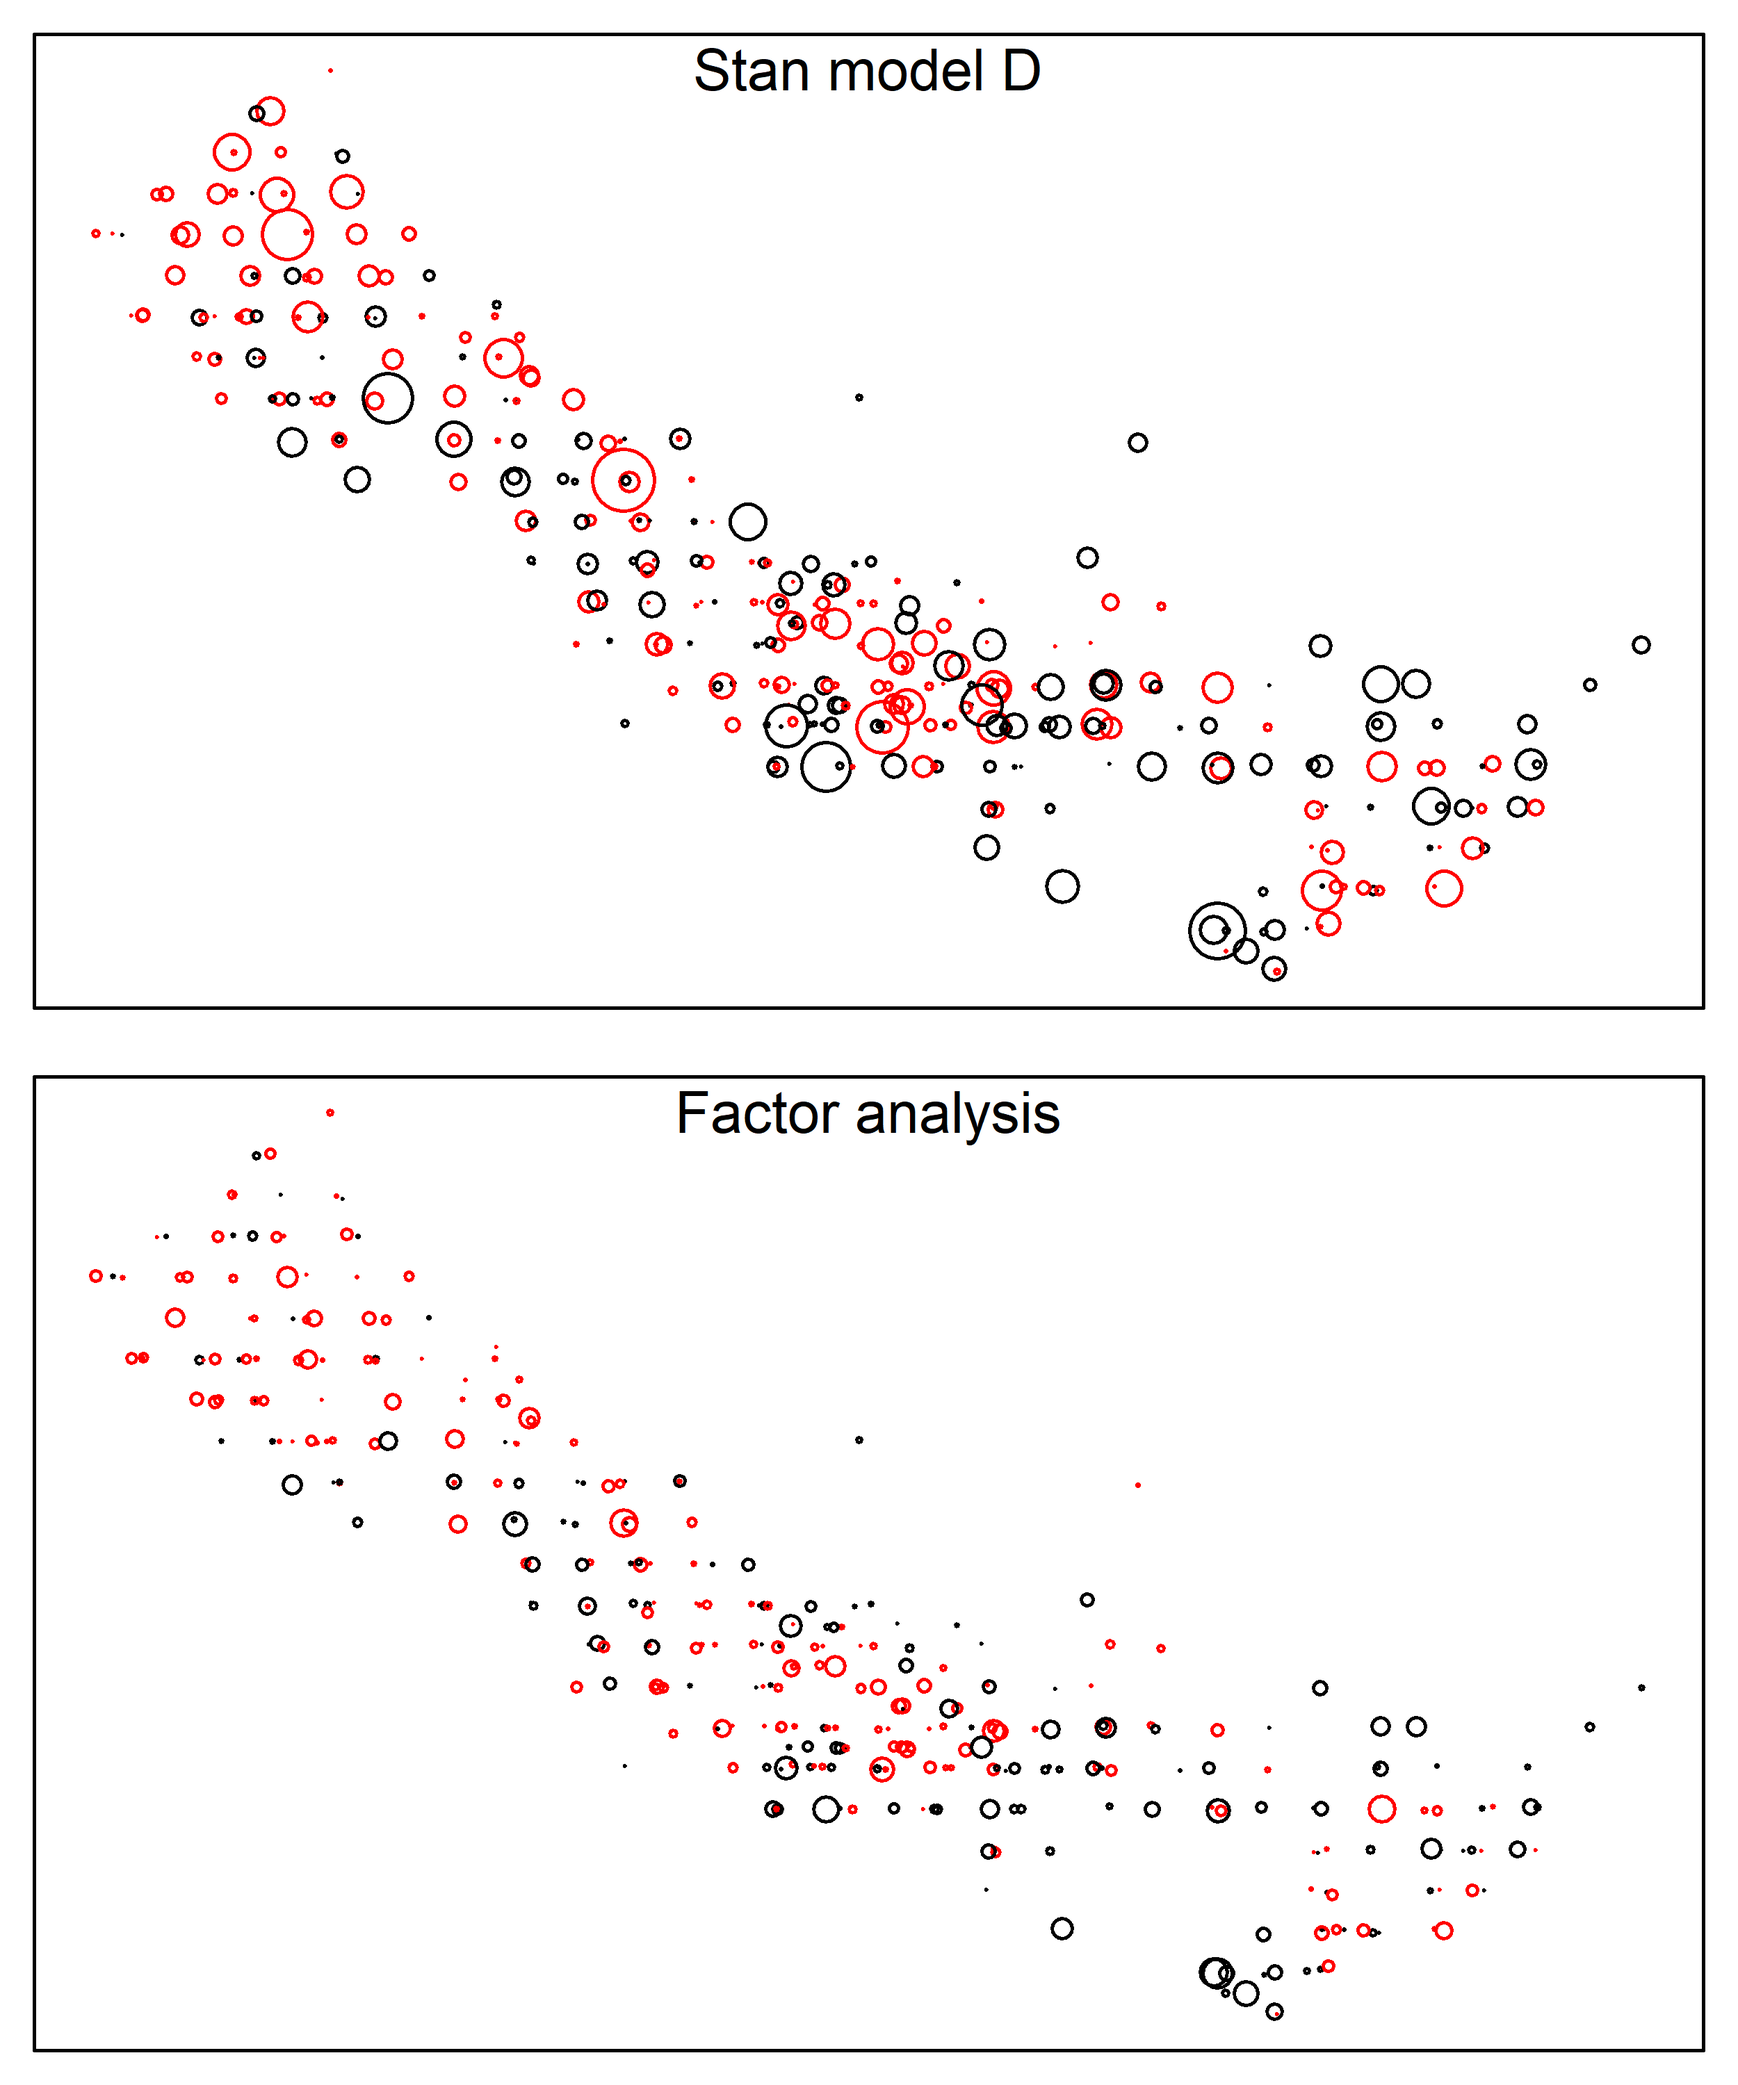
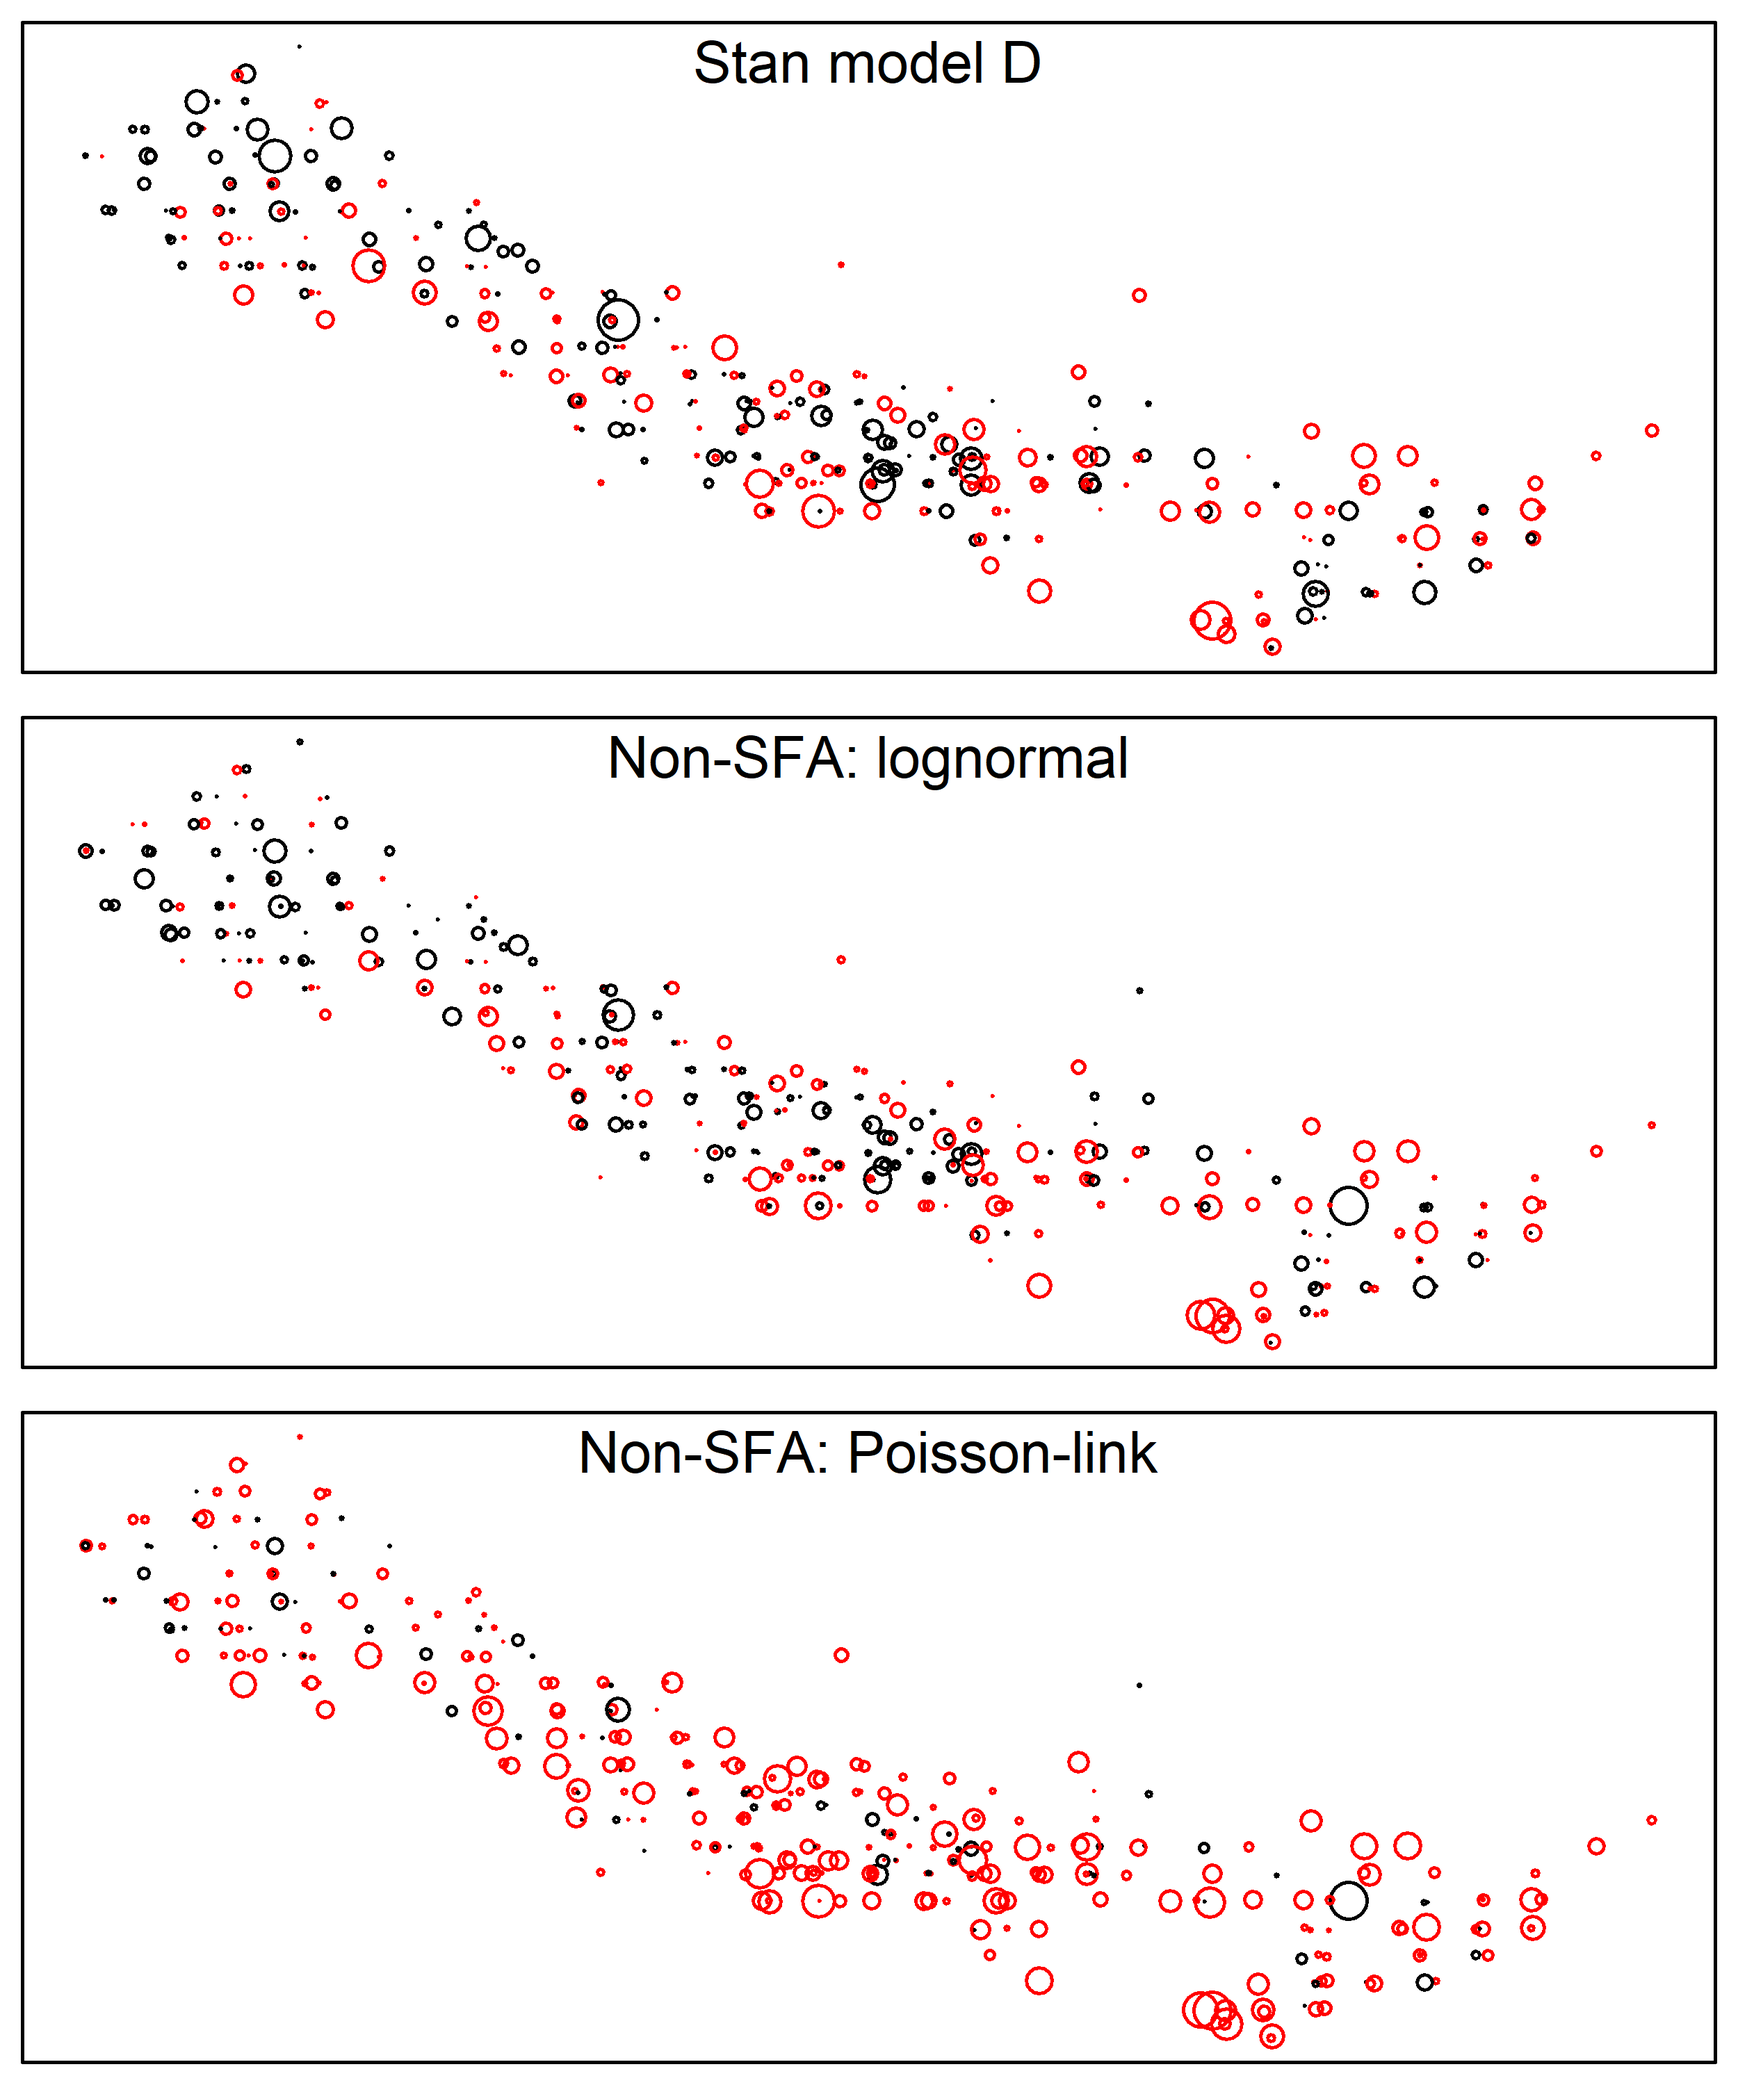
Add Poisson link version of the factor analysis and compare

diff --git a/models/factor_analysis_pois.cpp b/models/factor_analysis_pois.cpp
@@ -1,0 +1,126 @@
+/// A factor analysis model modified from Thorson's spatial_factor_analysis
+// TMB model. Here I'm using it to try and closely match Stan's old method. 
+
+// This is the same as factor_analysis.cpp but uses the poisson-link likelihooda
+
+#include <TMB.hpp>
+
+// dlnorm
+template<class Type>
+Type dlnorm(Type x, Type meanlog, Type sdlog, int give_log=0){
+  //return 1/(sqrt(2*M_PI)*sd)*exp(-.5*pow((x-mean)/sd,2));
+  Type logres = dnorm( log(x), meanlog, sdlog, true) - log(x);
+  if(give_log) return logres; else return exp(logres);
+}
+
+
+template<class Type>
+Type objective_function<Type>::operator() ()
+{
+  // Data
+  DATA_MATRIX(Y_sp);       	// Responses
+  DATA_INTEGER(n_f);        // Number of factors
+  // DATA_INTEGER(n_x); // Number of vertices in mesh
+  //  DATA_IVECTOR(x_s);	// Convert site s to vertex x
+  DATA_MATRIX(X_sj);		// Covariate design matrix
+
+  // Parameters
+  PARAMETER_MATRIX(beta_jp);
+  PARAMETER_VECTOR(Loadings_vec);
+
+  // Random effect
+  PARAMETER_ARRAY(Omega_sf);
+  PARAMETER(logsigma); // obs variance
+  PARAMETER(logweight); // log weight for Poisson-link
+  Type sigma=exp(logsigma);
+  Type sig22;
+  sig22=pow(sigma,2)/2;
+  
+  using namespace density;
+  int n_p = Y_sp.row(0).size();    // n_p is number of species
+  int n_s = Y_sp.col(0).size();	   // num of observations
+  int n_j = X_sj.row(0).size();	   // num of covariates
+  Type jnll = 0;
+
+  // Unpack loadings matrix
+  matrix<Type> Loadings_pf(n_p, n_f);
+  int Count = 0;
+  for(int f=0; f<n_f; f++){
+    for(int p=0; p<n_p; p++){
+      if(p>=f){
+        Loadings_pf(p,f) = Loadings_vec(Count);
+        Count++;
+      }else{
+        Loadings_pf(p,f) = 0.0;
+      }
+    }
+  }
+
+  // Spatial variables
+  // Type log_tau = log( 1 / (exp(log_kappa) * sqrt(4*M_PI)) );  // Ensures that MargSD = 1
+  // Type Range = sqrt(8) / exp( log_kappa );
+  // Eigen::SparseMatrix<Type> Q = exp(log_kappa*4)*M0 + Type(2.0)*exp(log_kappa*2)*M1 + M2;
+  // for(int f=0; f<n_f; f++){
+  //   jnll += SCALE( GMRF(Q), 1/exp(log_tau))( Omega_xf.col(f) );
+  // }
+  for(int ii=0; ii<n_s; ii++){
+    for(int jj=0; jj<n_f; jj++){
+      jnll-=dnorm(Omega_sf(ii,jj), Type(0),  Type(1), true);
+    }
+  }
+  
+  // Calculate the numbers-density and weight in each strata
+  matrix<Type> logweights(n_s, n_p);
+  matrix<Type> lognumbers(n_s, n_p);
+  matrix<Type> encounter( n_s, n_p);
+  matrix<Type> catchrate( n_s, n_p);
+  matrix<Type> logdensity(n_s, n_p); // predicted density in each strata
+  vector<Type> BT_hat(n_s); // predicted BT catch
+  matrix<Type> eta_sp( n_s, n_p );
+  eta_sp = X_sj * beta_jp;
+  for(int s=0; s<n_s; s++){
+    for(int p=0; p<n_p; p++){
+      // I assume the covariates and correlation between strata effects the
+      // lognumbers not the weight
+      lognumbers(s,p) = eta_sp(s,p);
+      for(int f=0; f<n_f; f++){
+	// This is the log-density in each of the three strata (p)
+	lognumbers(s,p) += Omega_sf(s,f) * Loadings_pf(p,f);
+      }
+      logweights(s,p)=logweight; // assume constant weight
+      encounter(s,p)=Type(1.0)-exp(-1*exp(lognumbers(s,p)));
+      catchrate(s,p)=exp(lognumbers(s,p))*exp(logweights(s,p))/encounter(s,p);
+      logdensity(s,p)=lognumbers(s,p)+logweights(s,p);
+      // Now calculate the likelihood
+      // Likelihood for the BT data (first column) I need to sum across the
+      // first two strata. I guess this is where the correlation is induced.
+      BT_hat(s)=log(exp(logdensity(s,0))+exp(logdensity(s,1)));
+      if(Y_sp(s,p)==0){
+	jnll-=log(1-encounter(s,p));
+      } else {
+	jnll-=log(encounter(s,p));
+	// jnll-=dlnorm(catches(s,p), log(catchrate(s,p))-pow(sigma,2)/2, sigma, true);
+	if(p==0)
+	  jnll-=dlnorm(Y_sp(s,0), BT_hat(s) -sig22, sigma, true);
+	if(p==1)
+	  // The AT1 is just the middle strata
+	  jnll-=dlnorm(Y_sp(s,1), logdensity(s,1)-sig22, sigma, true);
+	if(p==2)
+	  // and AT2 is the last strata
+	  jnll-=dlnorm(Y_sp(s,2), logdensity(s,2)-sig22, sigma, true);
+      }
+    }
+  }
+
+  REPORT(logdensity);
+  // Reporting
+  // REPORT( log_kappa );
+  //  REPORT( log_tau );
+  // REPORT( Range );
+  REPORT(BT_hat);
+  REPORT( Omega_sf );
+  REPORT( Loadings_pf );
+  REPORT( jnll );
+  ADREPORT(sigma);
+  return jnll;
+}
